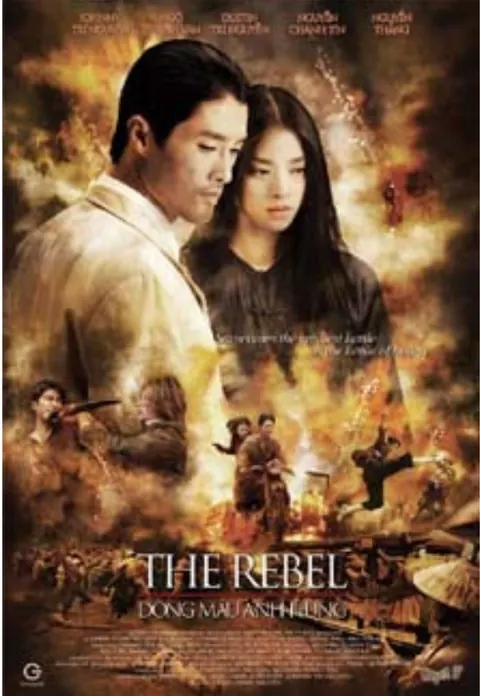
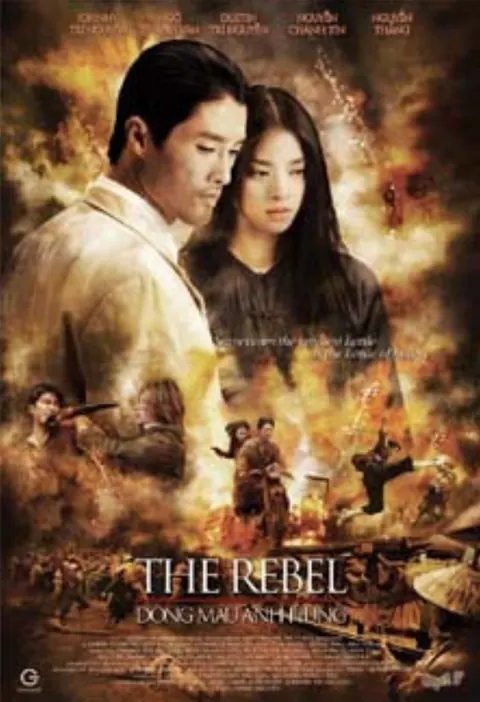
Trim the white border baked into The Rebel poster
The source poster has a light border column on both sides that showed as a
hairline on high-DPI screens, where the larger WebP rung is selected. Crop
the border from the original, regenerate the rungs, and update the manifest.

diff --git a/index.html b/index.html
@@ -30,8 +30,8 @@
       type="font/ttf"
       crossorigin
     />
-    <link rel="stylesheet" href="./style.css?v=4" />
-    <script type="module" src="./app.js?v=4"></script>
+    <link rel="stylesheet" href="./style.css?v=5" />
+    <script type="module" src="./app.js?v=5"></script>
   </head>
   <body>
     <a class="skip-link" href="#main">Skip to content</a>

diff --git a/app.js b/app.js
@@ -1,6 +1,6 @@
 import { films } from "./films.js?v=4";
 import { questions, matchFilm } from "./quiz.js?v=4";
-import { images } from "./assets/images/manifest.js?v=4";
+import { images } from "./assets/images/manifest.js?v=5";
 
 /* Build a responsive <img> from the WebP variants listed in the manifest. */
 function picture(name, sizes, attrs = "") {

diff --git a/assets/images/manifest.js b/assets/images/manifest.js
@@ -68,12 +68,12 @@ export const images = {
     ]
   },
   "rebel-poster": {
-    "width": 1412,
+    "width": 1400,
     "height": 2048,
     "widths": [
       480,
       960,
-      1412
+      1400
     ]
   }
 };
